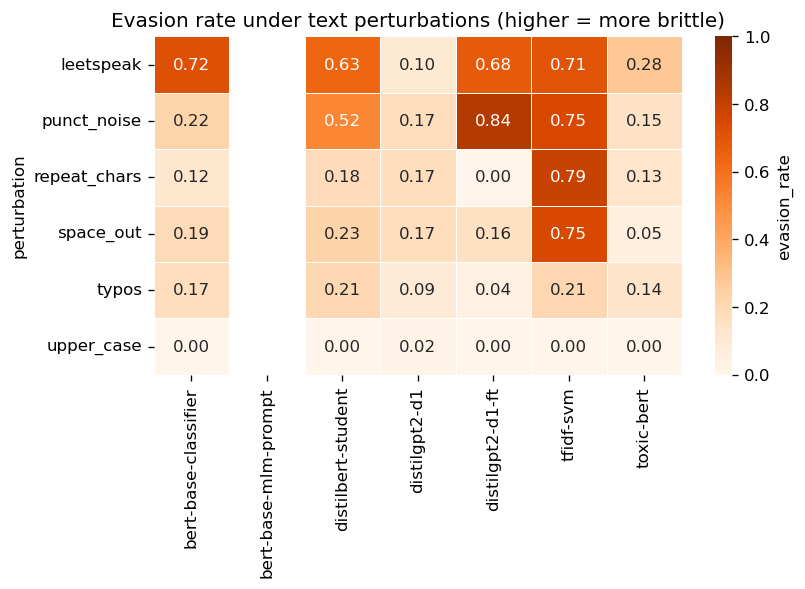
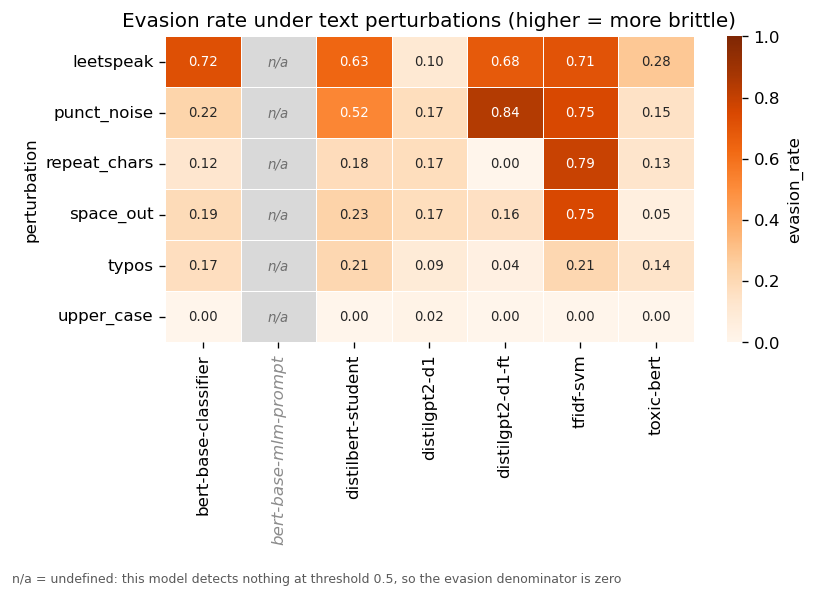
Mark undefined evasion cells as n/a instead of leaving them blank
A model that detects nothing at the 0.5 threshold has an evasion rate of 0/0,
and seaborn rendered those cells as blank white, which reads as a result we
forgot to compute rather than one that cannot exist. They are now grey, labelled
n/a, with the column name greyed and a footnote explaining the zero denominator.
seaborn skips annotations on NaN cells even when given an explicit annot array,
so the labels are drawn manually.

diff --git a/src/plots.py b/src/plots.py
@@ -1,4 +1,5 @@
 """Comparison plots for encoder vs decoder smoke / formal eval."""
+import copy
 from pathlib import Path
 from typing import Optional, Sequence
 
@@ -269,15 +270,51 @@ def plot_robustness_heatmap(
     """
     mat = robustness_matrix(results, value=value, probe=probe)
     fig, ax = plt.subplots(figsize=figsize)
+
+    # A model that detects nothing at the threshold has an undefined evasion
+    # rate (0/0 -> NaN). Left alone those cells render blank and read as a
+    # missing result, so mark them explicitly: grey fill, "n/a" annotation.
+    cmap = copy.copy(plt.get_cmap("Oranges"))
+    cmap.set_bad("#d9d9d9")
+
     sns.heatmap(
-        mat, annot=True, fmt=".2f", cmap="Oranges", vmin=0, vmax=1,
+        mat, annot=True, fmt=".2f", cmap=cmap, vmin=0, vmax=1,
         cbar_kws={"label": value}, ax=ax, linewidths=0.5, linecolor="white",
+        annot_kws={"fontsize": 8},
     )
+
+    # seaborn skips annotations on NaN cells, so write "n/a" into them by hand.
+    for xi, col in enumerate(mat.columns):
+        for yi, idx in enumerate(mat.index):
+            if pd.isna(mat.loc[idx, col]):
+                ax.text(
+                    xi + 0.5, yi + 0.5, "n/a",
+                    ha="center", va="center", fontsize=8,
+                    color="#6f6f6f", style="italic",
+                )
+
+    # Grey out the label of any fully-undefined model so the axis matches.
+    undefined = [c for c in mat.columns if mat[c].isna().all()]
+    for lbl in ax.get_xticklabels():
+        if lbl.get_text() in undefined:
+            lbl.set_color("#8c8c8c")
+            lbl.set_style("italic")
+
     title = "Evasion rate" if probe == "toxic_probe" else "FP-induction rate"
     ax.set_title(f"{title} under text perturbations (higher = more brittle)")
     ax.set_xlabel("")
     ax.set_ylabel("perturbation")
     fig.tight_layout()
+    if undefined:
+        # Placed on the figure (not the axes) and after tight_layout, so it sits
+        # below the rotated tick labels instead of colliding with them.
+        fig.subplots_adjust(bottom=0.42)
+        fig.text(
+            0.01, 0.02,
+            "n/a = undefined: this model detects nothing at threshold 0.5, "
+            "so the evasion denominator is zero",
+            fontsize=7.5, color="#5a5a5a",
+        )
     return fig, ax, mat
 
 
